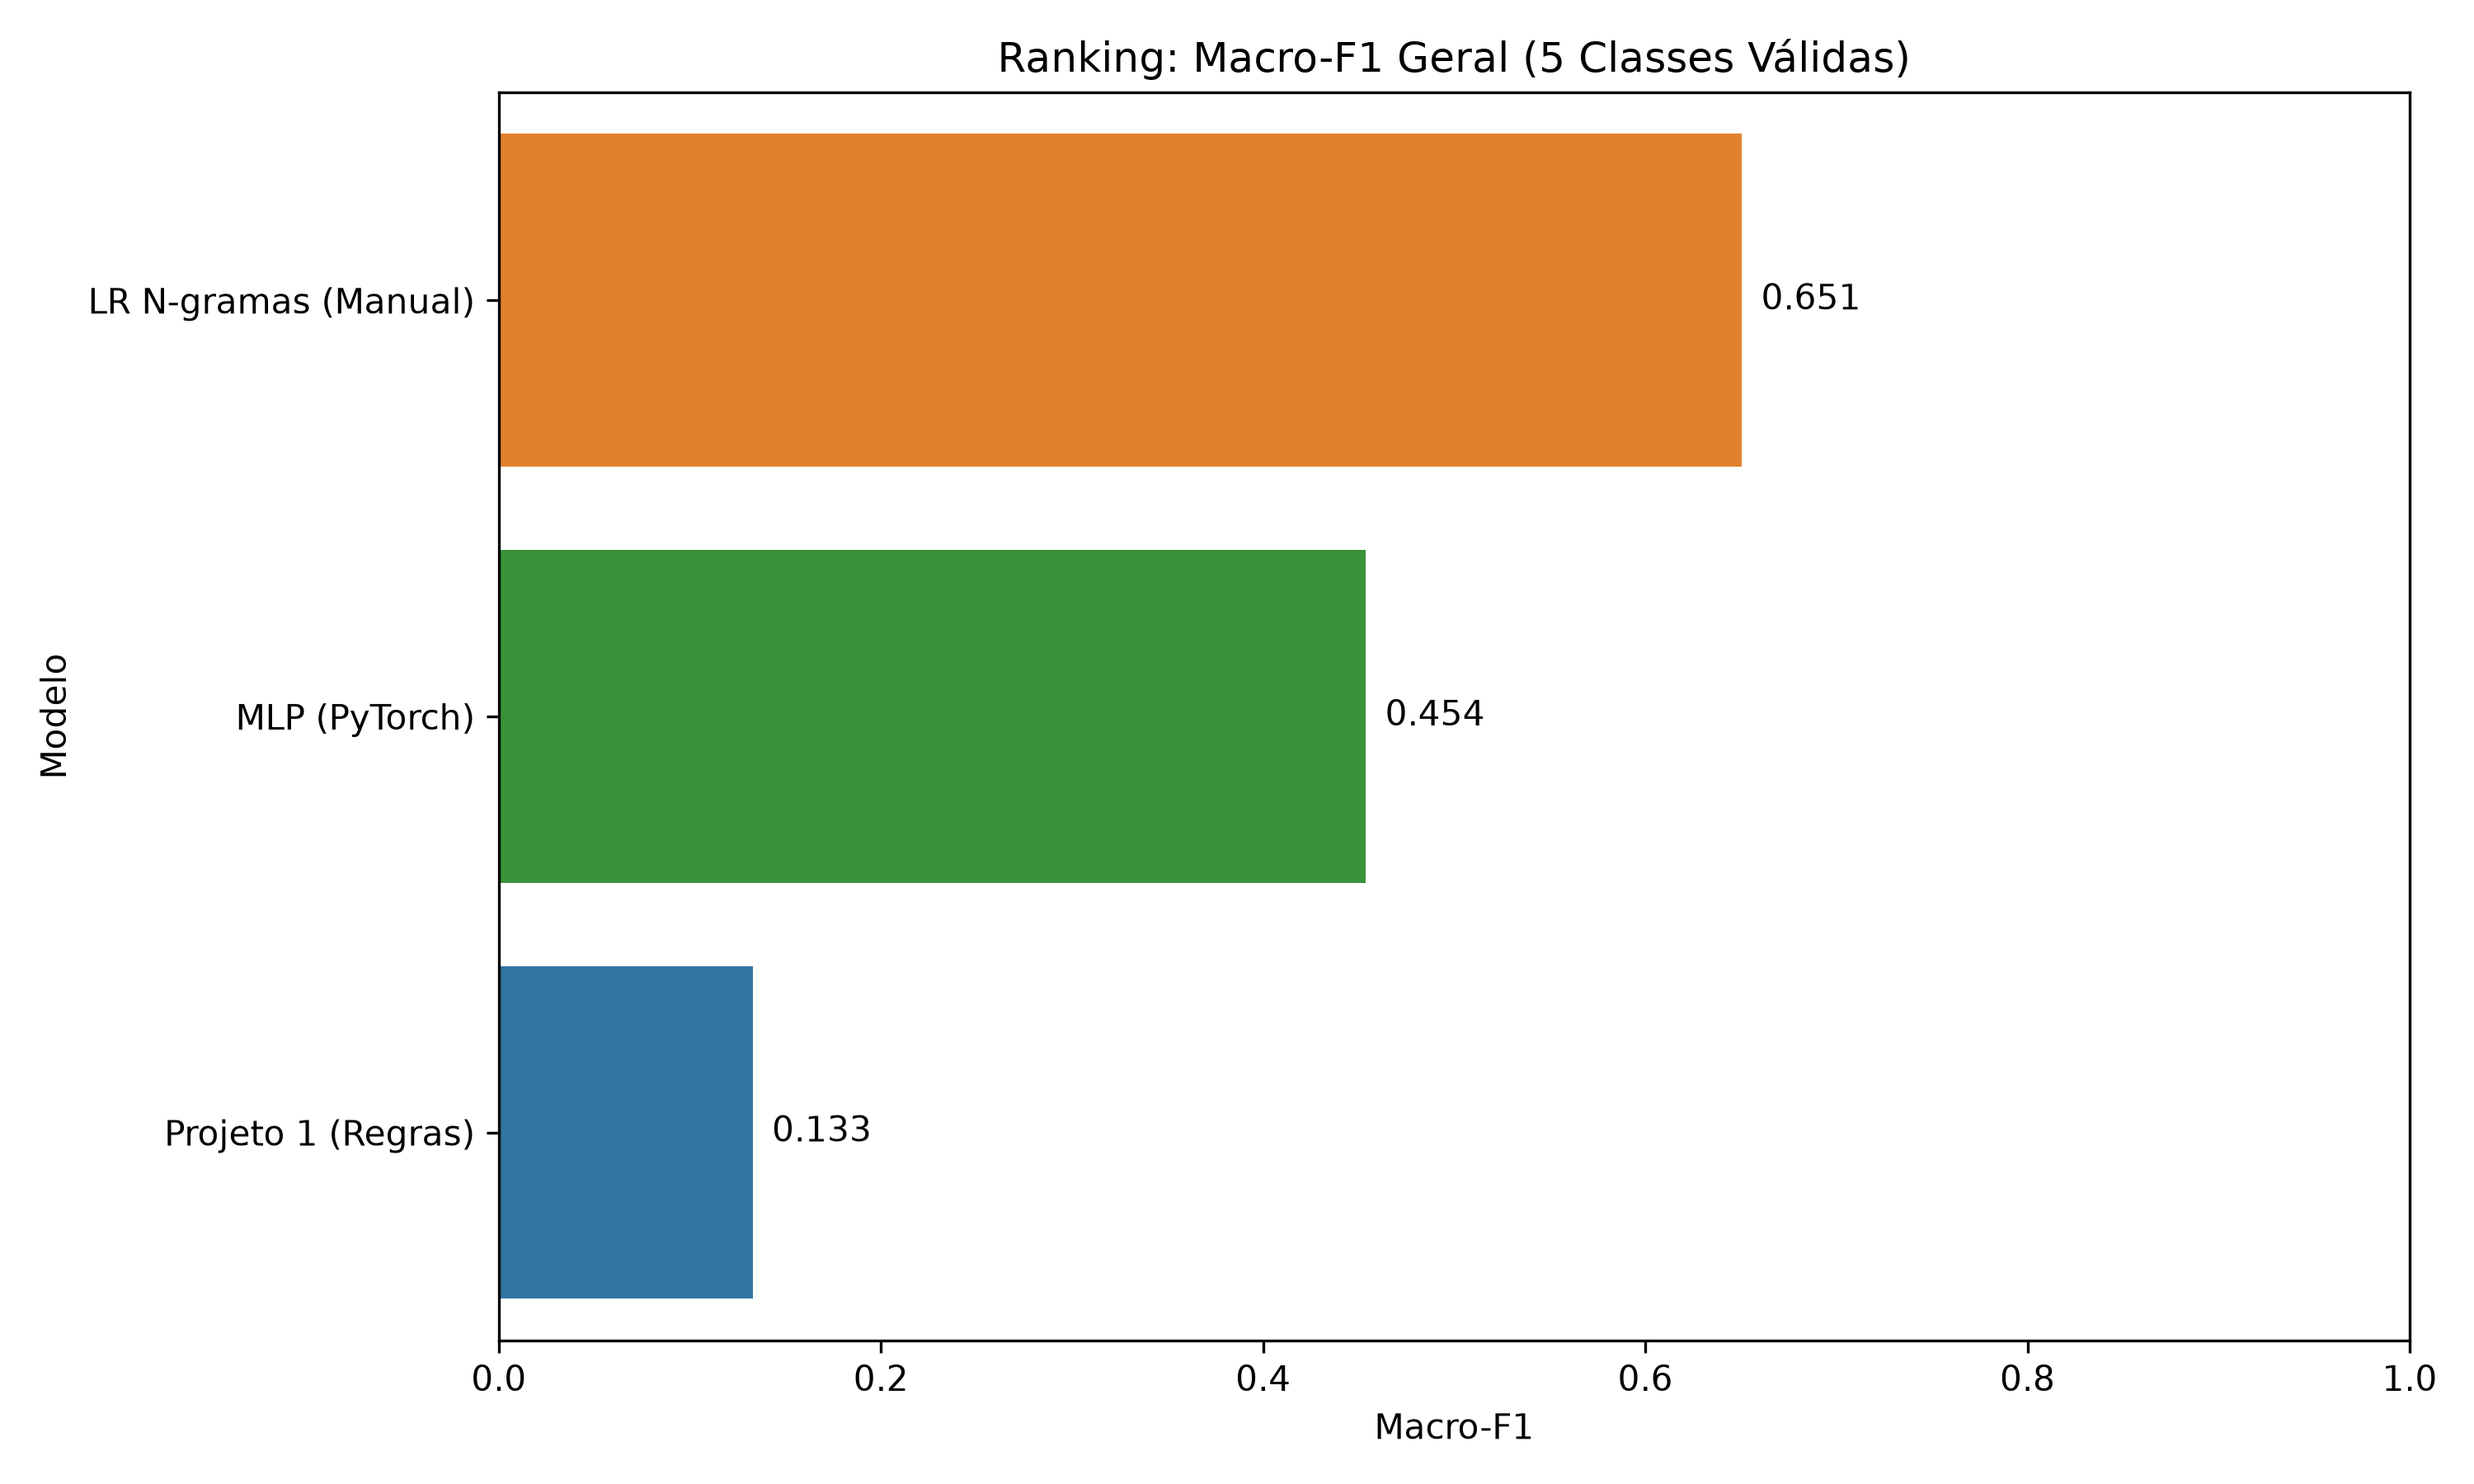
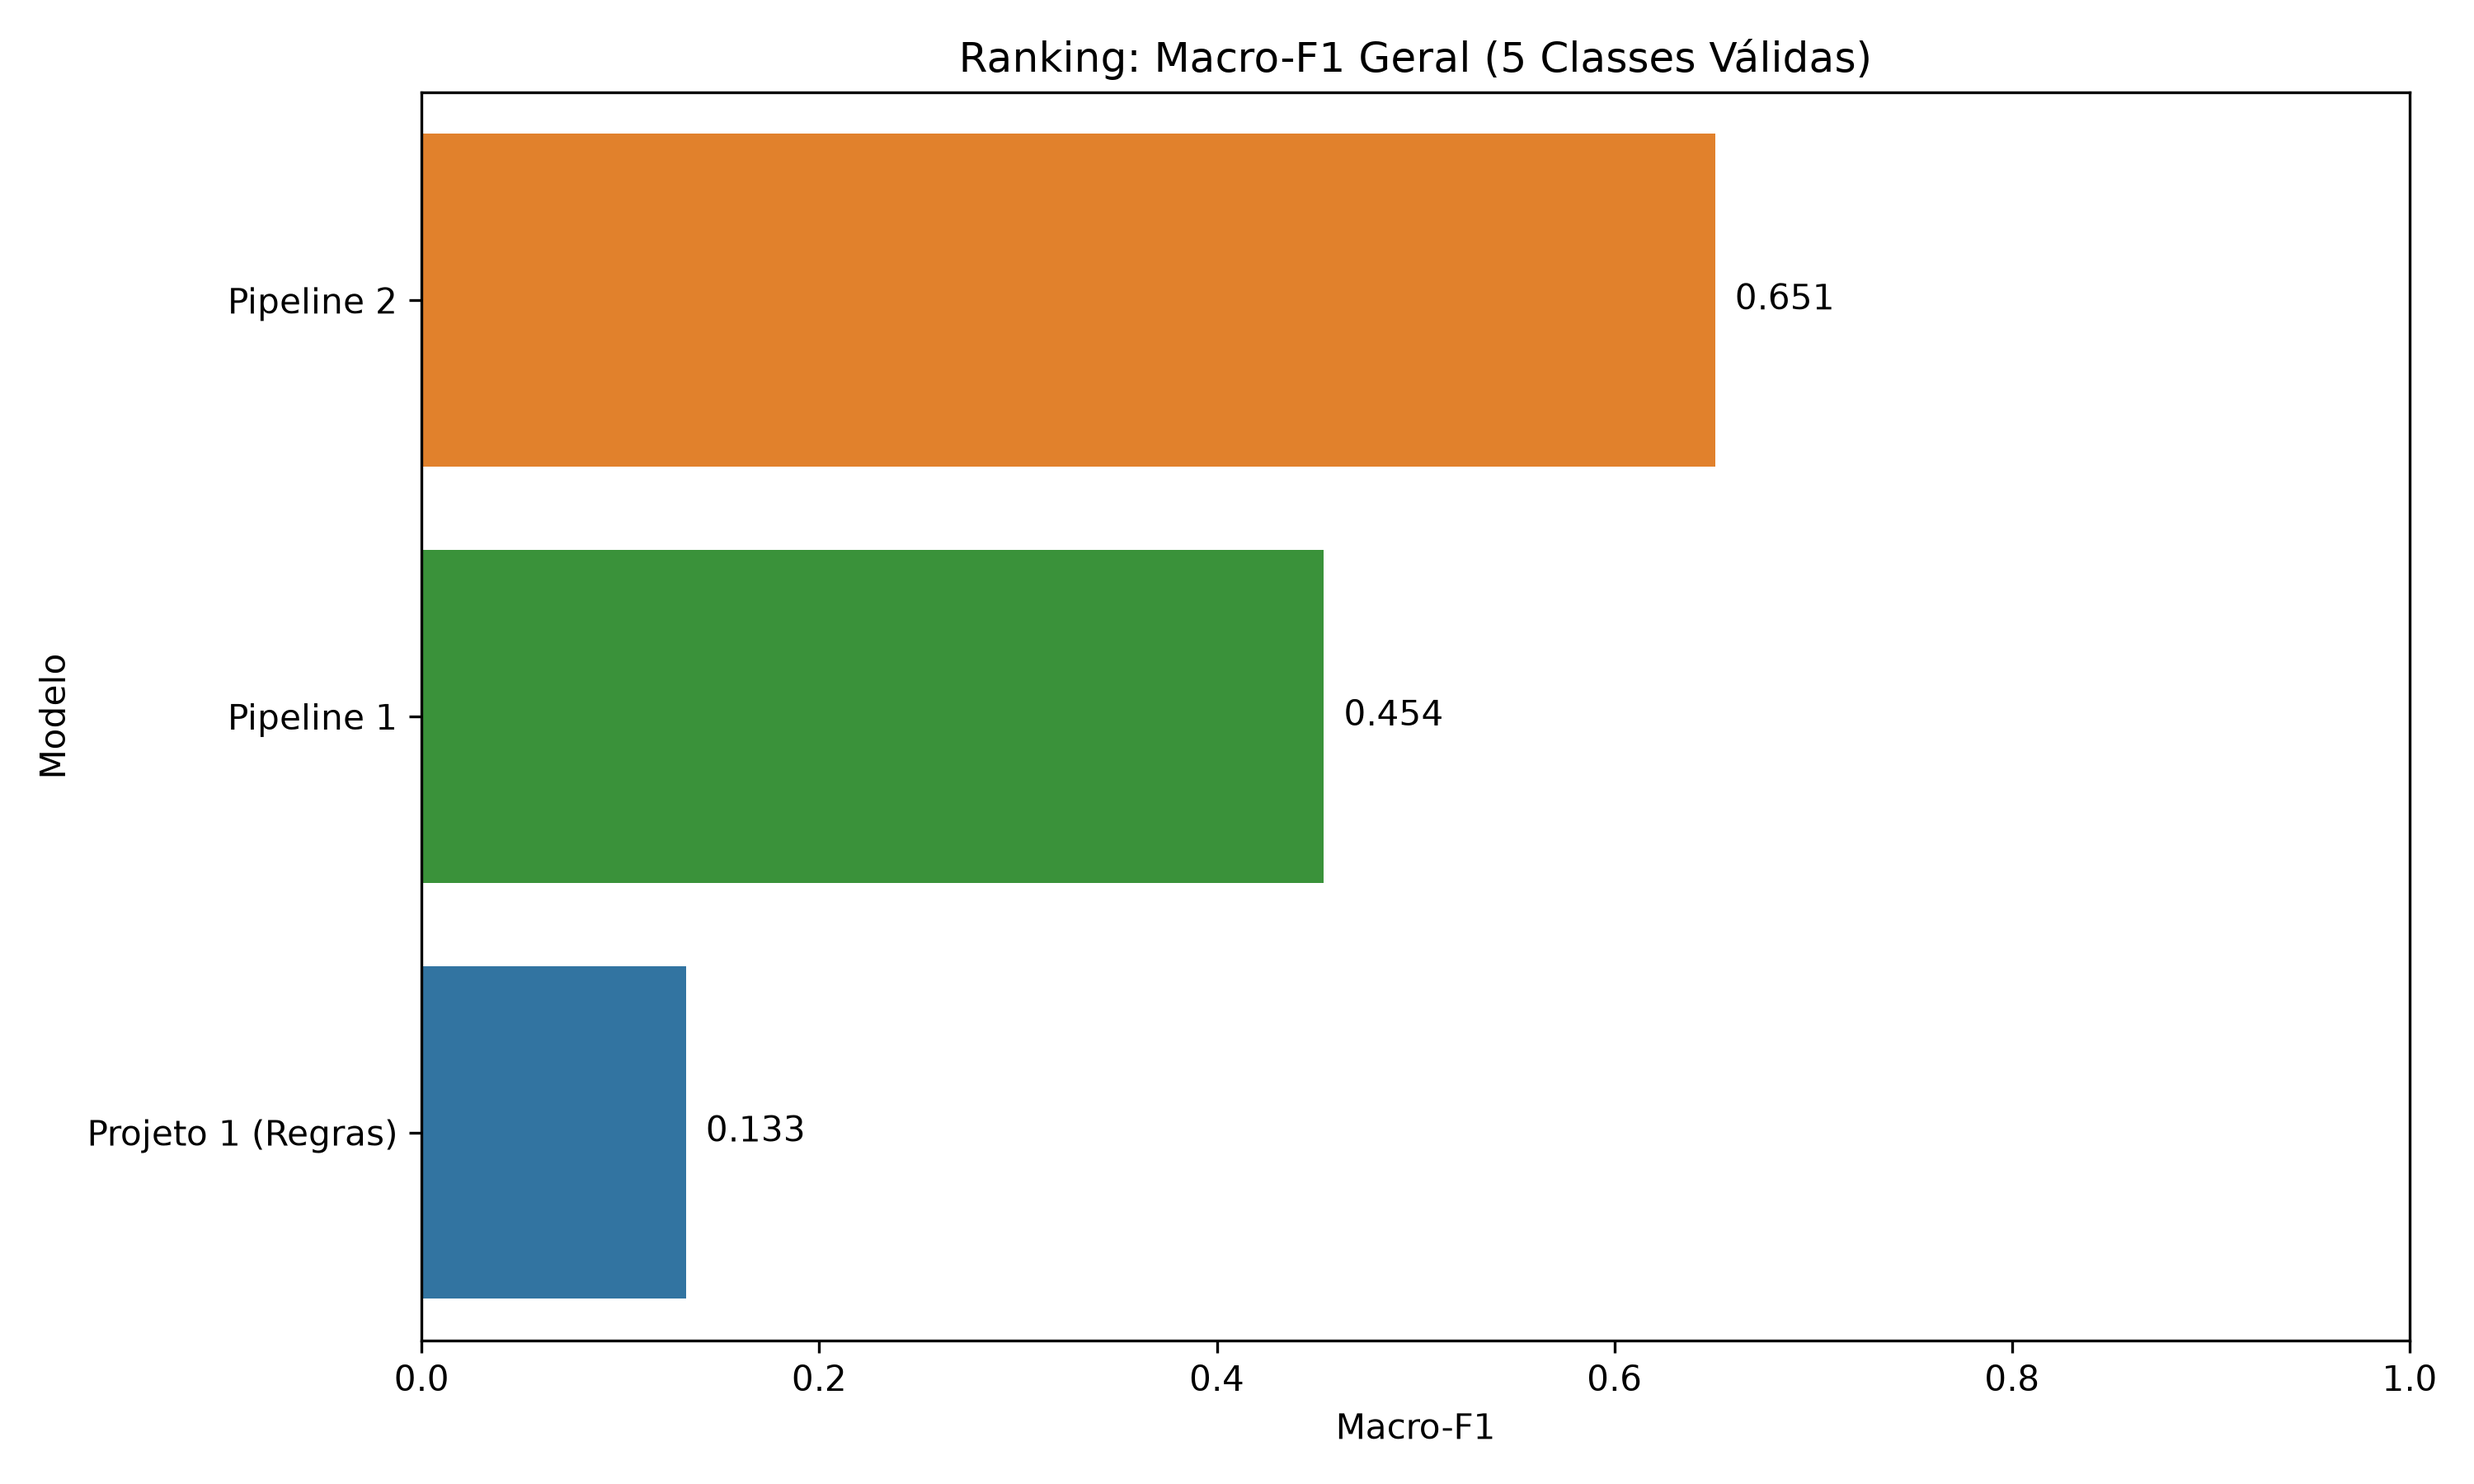
refactor(comparison): atualiza legendas para Pipeline 1 e Pipeline 2

diff --git a/project2/src/comparison/run_comparison.py b/project2/src/comparison/run_comparison.py
@@ -18,15 +18,15 @@ def run():
     res_p1 = metrics.compute_relation_metrics(gold_df["relation_label"], p1_preds, "Projeto 1 (Regras)")
     results.append(res_p1)
     
-    print("[3/5] A avaliar Regressão Logística (N-gramas)...")
+    print("[3/5] A avaliar Pipeline 2 (Anotação Manual)...")
     lr_preds = models.train_and_eval_lr(gold_df, use_types=False)
-    res_lr = metrics.compute_relation_metrics(gold_df["relation_label"], lr_preds, "LR N-gramas (Manual)")
+    res_lr = metrics.compute_relation_metrics(gold_df["relation_label"], lr_preds, "Pipeline 2")
     results.append(res_lr)
     
-    print("[4/5] A avaliar MLP (PyTorch)...")
+    print("[4/5] A avaliar Pipeline 1 (Rede Neural)...")
     mlp = mlp_model.PyTorchMLP()
     mlp_preds = mlp.predict(gold_df["intermediate_text"])
-    res_mlp = metrics.compute_relation_metrics(gold_df["relation_label"], mlp_preds, "MLP (PyTorch)")
+    res_mlp = metrics.compute_relation_metrics(gold_df["relation_label"], mlp_preds, "Pipeline 1")
     results.append(res_mlp)
     
     print("[5/5] A gerar relatório Markdown e guardar gráficos...")

diff --git a/project2/src/comparison/config.py b/project2/src/comparison/config.py
@@ -22,6 +22,6 @@ E2E_THRESHOLD = 0.5
 
 MODEL_COLORS = {
     'Projeto 1 (Regras)': '#1f77b4',
-    'LR N-gramas (Manual)': '#ff7f0e',
-    'MLP (PyTorch)': '#2ca02c'
+    'Pipeline 1': '#2ca02c',
+    'Pipeline 2': '#ff7f0e'
 }

diff --git a/project2/data/processed/comparison/relatorio_comparacao.md b/project2/data/processed/comparison/relatorio_comparacao.md
@@ -5,11 +5,11 @@ A avaliação considera as 5 classes de relações válidas, omitindo NO_RELATIO
 **Distribuição do Gold Analisado:** 125 instâncias.
 
 ## 1. Métricas de Desempenho (Relações)
-| Modelo               |   Macro-F1 |   Precision |    Recall |
-|:---------------------|-----------:|------------:|----------:|
-| Projeto 1 (Regras)   |   0.132949 |    0.6      | 0.0756979 |
-| LR N-gramas (Manual) |   0.650614 |    0.662065 | 0.645236  |
-| MLP (PyTorch)        |   0.453853 |    0.442074 | 0.473263  |
+| Modelo             |   Macro-F1 |   Precision |    Recall |
+|:-------------------|-----------:|------------:|----------:|
+| Projeto 1 (Regras) |   0.132949 |    0.6      | 0.0756979 |
+| Pipeline 2         |   0.650614 |    0.662065 | 0.645236  |
+| Pipeline 1         |   0.453853 |    0.442074 | 0.473263  |
 
 ## 2. Estatísticas do Grafo (Projeto 1)
 - **Total de Nós**: 5867
